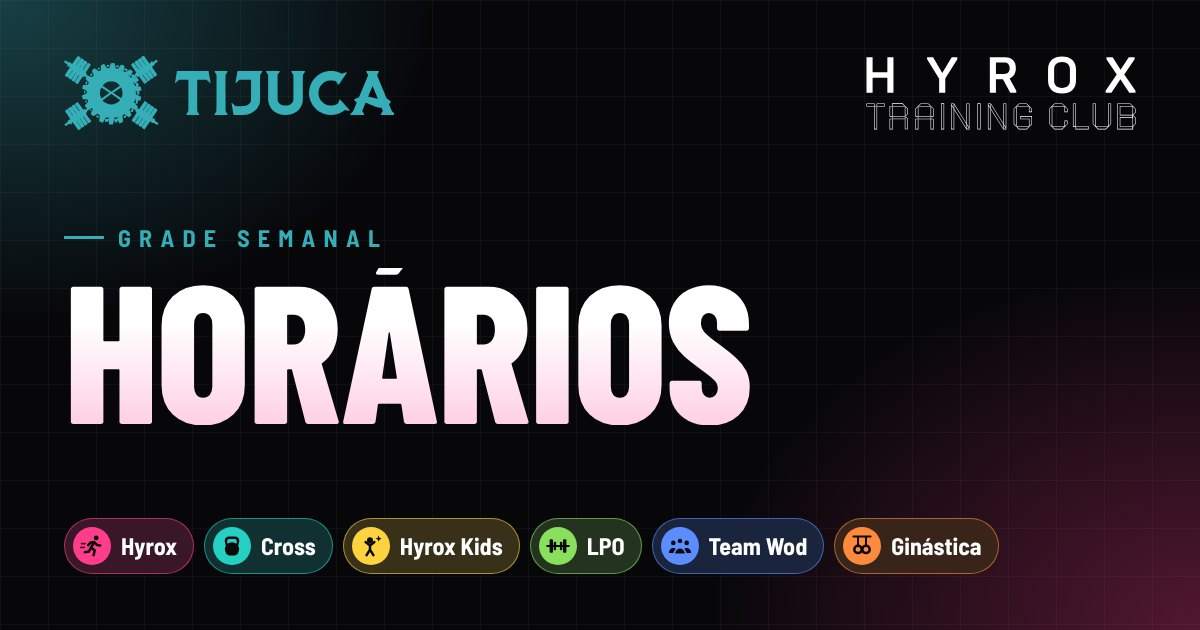
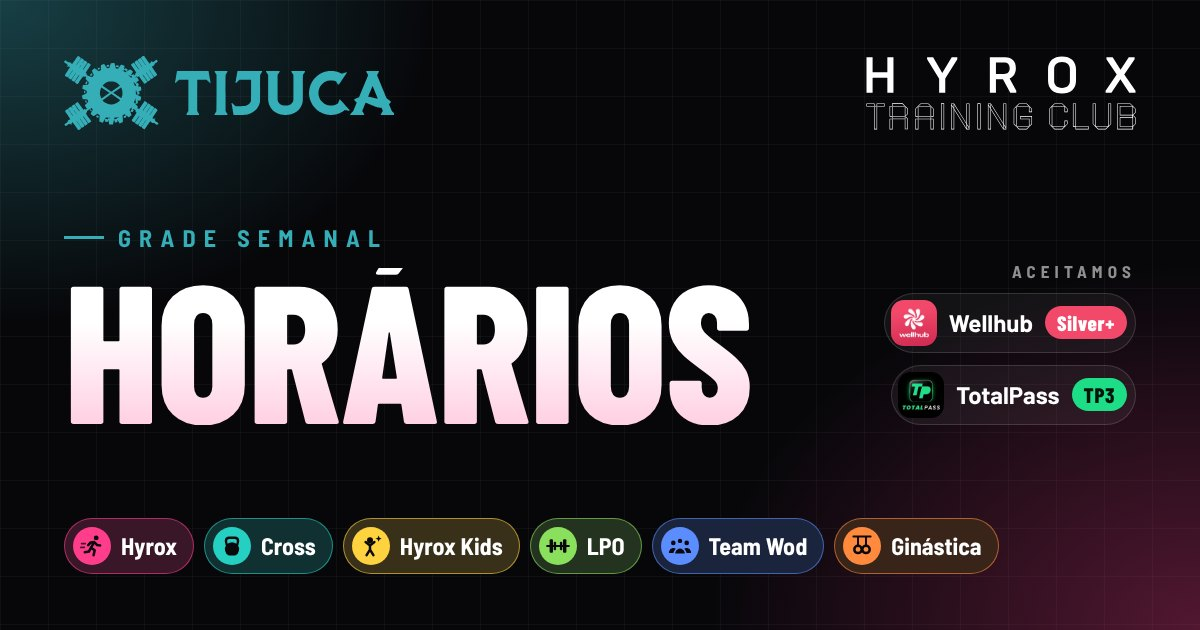
Aceitamos Wellhub e TotalPass; remove valores riscados
Claude-Session: https://claude.ai/code/session_01JD4NmM5LZNbYE8YMpotdFK

Changed region(s): [[0.74, 0.4524, 0.9558, 0.573], [0.74, 0.573, 0.9558, 0.6635], [0.8325, 0.4222, 0.9558, 0.4524]]

diff --git a/index.html b/index.html
@@ -315,10 +315,6 @@
     font-family: 'Barlow Condensed', sans-serif; font-weight: 800; font-size: 17px; letter-spacing: .06em; text-transform: uppercase; color: var(--soft);
   }
   .seg button[aria-pressed="true"] { background: #fff; color: #07070a; }
-  .seg em {
-    padding: 2px 7px; border-radius: 999px; font-style: normal; font-family: 'Barlow', sans-serif;
-    font-weight: 700; font-size: 11.5px; letter-spacing: 0; text-transform: none; white-space: nowrap; background: #ffb547; color: #1a1200;
-  }
   .plans { display: grid; gap: 10px; margin-top: 12px; }
   .plan {
     border-radius: 20px; padding: 16px 14px 6px;
@@ -332,12 +328,27 @@
   .prows { list-style: none; margin-top: 10px; }
   .prow { display: flex; align-items: center; gap: 10px; padding: 12px 2px; border-top: 1px solid var(--line); }
   .prow-freq { flex: 1; font-weight: 700; font-size: 15.5px; }
-  .prow-old { font-size: 13px; font-weight: 600; color: var(--faint); text-decoration: line-through; }
   .prow-price { font-family: 'Barlow Condensed', sans-serif; font-weight: 800; font-size: 28px; line-height: 1; font-variant-numeric: tabular-nums; white-space: nowrap; }
   .prow-price small { margin-right: 2px; font-size: 14px; font-weight: 700; }
   .prow-price span { margin-left: 2px; font-family: 'Barlow', sans-serif; font-size: 12.5px; font-weight: 700; color: var(--faint); }
   .plan.tri .prow-price { color: color-mix(in srgb, var(--c) 75%, #fff); }
   .prow .go { width: 18px; height: 18px; flex: none; color: var(--faint); }
+  .accept {
+    margin-top: 10px; padding: 14px; border-radius: 20px;
+    background: var(--surface); border: 1px solid var(--line);
+  }
+  .accept-label { display: block; font-size: 12px; font-weight: 700; letter-spacing: .2em; text-transform: uppercase; color: var(--faint); }
+  .accept-list { display: grid; grid-template-columns: 1fr 1fr; gap: 8px; margin-top: 10px; }
+  .acc { display: flex; align-items: center; gap: 10px; padding: 8px; border-radius: 14px; background: rgba(255, 255, 255, .04); border: 1px solid var(--line); }
+  .acc img { flex: none; width: 42px; height: 42px; border-radius: 12px; }
+  .acc strong { display: block; font-size: 15px; line-height: 1.1; }
+  .acc small {
+    display: inline-block; margin-top: 4px; padding: 2px 8px; border-radius: 999px;
+    font-family: 'Barlow Condensed', sans-serif; font-weight: 800; font-size: 14px; letter-spacing: .03em;
+    background: var(--pc); color: var(--pt);
+  }
+  .credits-pt { display: flex; justify-content: center; align-items: center; gap: 8px; margin-bottom: 12px; font-weight: 700; color: var(--soft); }
+  .credits-pt img { width: 22px; height: 22px; border-radius: 6px; }
   .plans-note { margin-top: 10px; text-align: center; font-size: 13.5px; color: var(--faint); }
 
   /* ---------- vídeos ---------- */
@@ -440,9 +451,10 @@
     <div class="section-title"><h2 id="planos-titulo">Planos</h2><span>valor por mês</span></div>
     <div class="seg" id="periodo" role="group" aria-label="Período do plano">
       <button type="button" data-per="mensal" aria-pressed="true">Mensal</button>
-      <button type="button" data-per="tri" aria-pressed="false">Trimestral <em id="economia"></em></button>
+      <button type="button" data-per="tri" aria-pressed="false">Trimestral</button>
     </div>
     <div class="plans" id="plans"></div>
+    <div class="accept" id="accept"></div>
     <p class="plans-note">Toque no plano para falar com a gente no WhatsApp.</p>
   </section>
 
@@ -487,6 +499,7 @@
 
   <footer class="credits">
     <div class="htc"><i data-logo="hyrox" aria-label="Hyrox"></i><i data-logo="tc" aria-label="Training Club"></i></div>
+    <div class="credits-pt" id="credits-pt"></div>
     Tijuca Hyrox Training Club · Rio de Janeiro
   </footer>
 </main>
@@ -600,14 +613,23 @@ window.TH = (() => {
     },
   ];
 
+  // Parceiros aceitos (aparecem no rodapé das artes e na página).
+  const PARCEIROS = [
[2 lines of base64/hex data omitted]
+  ];
+  const parceirosHTML = () => '<span class="pt-label">Aceitamos</span>' + PARCEIROS.map((p) =>
+    `<span class="pt"><img src="${p.logo}" alt="${p.nome}"><span class="pt-nome">${p.nome}</span>` +
+    `<span class="pt-plano" style="--pc:${p.cor};--pt:${p.tinta}">${p.plano}</span></span>`).join('');
+
   const fmt = (min) => `${Math.floor(min / 60)}h${min % 60 ? String(min % 60).padStart(2, '0') : ''}`;
   const faixa = (aula, sep = ' às ') => fmt(aula.ini) + sep + fmt(aula.fim);
 
-  return { MODALIDADES, POR_ID, DIAS, DIAS_CURTOS, HORAS, AULAS, PLANOS, fmt, faixa };
+  return { MODALIDADES, POR_ID, DIAS, DIAS_CURTOS, HORAS, AULAS, PLANOS, PARCEIROS, parceirosHTML, fmt, faixa };
 })();
 </script>
 <script>
-  const { MODALIDADES, POR_ID, DIAS, DIAS_CURTOS, AULAS, PLANOS, faixa, fmt } = TH;
+  const { MODALIDADES, POR_ID, DIAS, DIAS_CURTOS, AULAS, PLANOS, PARCEIROS, faixa, fmt } = TH;
   const WHATSAPP = '5521999562765';
   const $ = (sel) => document.querySelector(sel);
   const icone = (id, cls = '') => `<svg class="${cls}" viewBox="0 0 24 24" aria-hidden="true"><use href="#i-${id}"/></svg>`;
@@ -781,13 +803,17 @@ window.TH = (() => {
           const valor = tri ? trimestral : mensal;
           const msg = `Olá! Vi os planos no site e tenho interesse no plano ${p.nome} · ${freq} · ${tri ? 'Trimestral' : 'Mensal'} (R$ ${valor}/mês). Pode me ajudar?`;
           return `<li><a class="prow" href="${whats(msg)}" target="_blank" rel="noopener">` +
-            `<span class="prow-freq">${freq}</span>${tri ? `<span class="prow-old">R$ ${mensal}</span>` : ''}` +
+            `<span class="prow-freq">${freq}</span>` +
             `<span class="prow-price"><small>R$</small>${valor}<span>/mês</span></span>${icone('arrow', 'go')}</a></li>`;
         }).join('')}</ul>
       </article>`).join('');
     document.querySelectorAll('#periodo button').forEach((b) => b.setAttribute('aria-pressed', b.dataset.per === periodo));
   }
-  $('#economia').textContent = `até −R$ ${Math.max(...PLANOS.flatMap((p) => p.precos.map(([, m, t]) => m - t)))}`;
+  $('#accept').innerHTML = '<span class="accept-label">Aceitamos</span><div class="accept-list">' +
+    PARCEIROS.map((p) => `<div class="acc"><img src="${p.logo}" alt=""><div><strong>${p.nome}</strong>` +
+      `<small style="--pc:${p.cor};--pt:${p.tinta}">${p.plano}</small></div></div>`).join('') + '</div>';
+  $('#credits-pt').innerHTML = 'Aceitamos ' + PARCEIROS.map((p) =>
+    `<img src="${p.logo}" alt="">${p.nome} ${p.plano}`).join(' · ');
   $('#periodo').addEventListener('click', (e) => {
     const b = e.target.closest('button');
     if (b) { periodo = b.dataset.per; renderPlanos(); }
